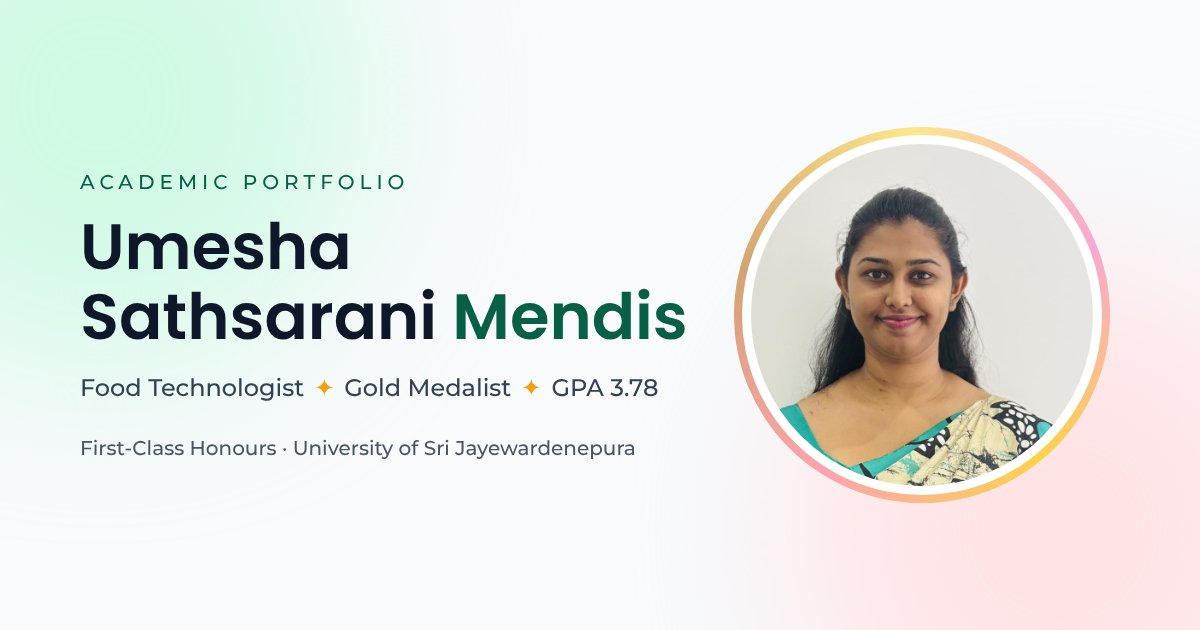
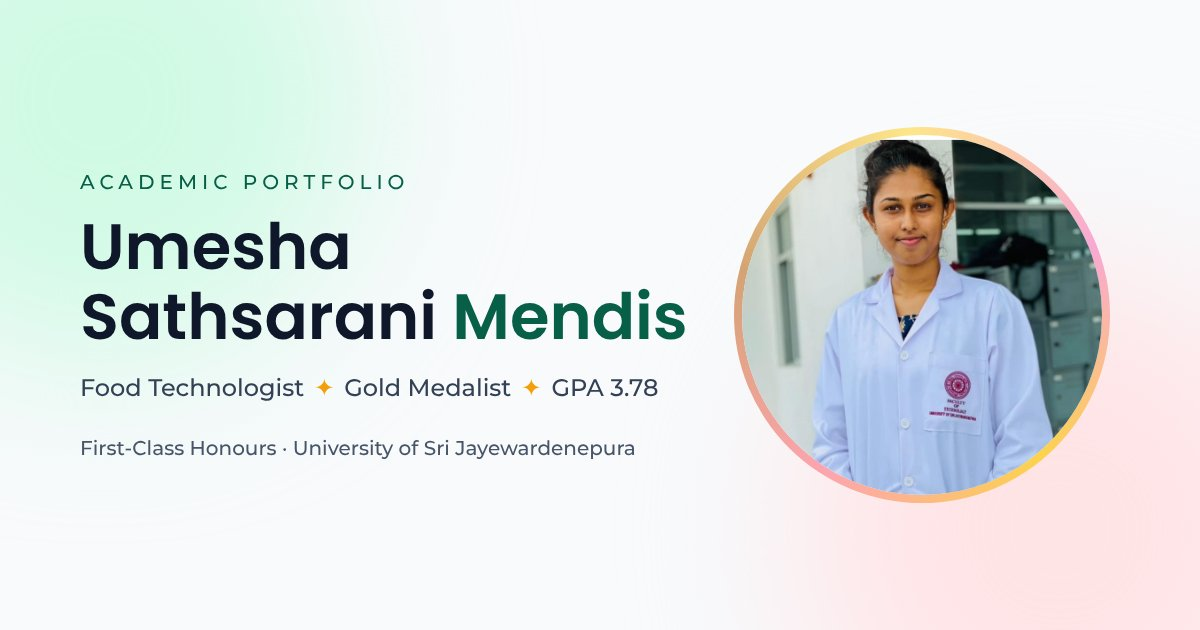
Use 3.jpeg as headshot instead of IMG_0790
- Hero headshot, preload, JSON-LD image and og-image now use 3.jpeg
- Remove public/IMG_0790.jpg
- Machinery card returns to its illustrated cover so 3.jpeg isn't repeated

Claude-Session: https://claude.ai/code/session_01BjArtn9AzUuMyRvcFWkPQm

Changed region(s): [[0.6167, 0.2111, 0.925, 0.7841]]

diff --git a/src/components/Hero.jsx b/src/components/Hero.jsx
@@ -83,15 +83,18 @@ export default function Hero() {
 
           <div className="relative aspect-square rounded-full bg-[conic-gradient(from_140deg,#fcd34d,#fda4af,#d4a373,#fde68a,#f9a8d4,#fcd34d)] p-1.5 shadow-xl shadow-rose-900/10">
             <div className="size-full rounded-full bg-white p-2">
-              <img
-                src={site.portrait.src}
-                width="800"
-                height="800"
-                alt={site.portrait.alt}
-                fetchPriority="high"
-                decoding="async"
-                className="size-full rounded-full object-cover object-top"
-              />
+              <div className="size-full overflow-hidden rounded-full bg-slate-100">
+                {/* 3.jpeg is a waist-up shot: zoom toward the face for a headshot crop */}
+                <img
+                  src={site.portrait.src}
+                  width="1080"
+                  height="1080"
+                  alt={site.portrait.alt}
+                  fetchPriority="high"
+                  decoding="async"
+                  className="size-full origin-[50%_3%] scale-[1.4] object-cover"
+                />
+              </div>
             </div>
           </div>
 

diff --git a/index.html b/index.html
@@ -13,7 +13,7 @@
     <link rel="icon" type="image/svg+xml" href="/favicon.svg" />
 
     <!-- Hero headshot is the Largest Contentful Paint element: start loading it before the JS runs -->
-    <link rel="preload" as="image" href="/IMG_0790.jpg" type="image/jpeg" fetchpriority="high" />
+    <link rel="preload" as="image" href="/3.jpeg" type="image/jpeg" fetchpriority="high" />
 
     <!-- Open Graph / social link previews -->
     <meta property="og:type" content="profile" />
@@ -47,7 +47,7 @@
         "jobTitle": "Food Technologist",
         "description": "First-Class Honours graduate in Biosystems Technology (Food Processing Technology) and Gold Medalist for the Most Outstanding Graduate, aspiring graduate researcher in food science.",
         "url": "https://iaus-mendis-portfolio.vercel.app/",
-        "image": "https://iaus-mendis-portfolio.vercel.app/IMG_0790.jpg",
+        "image": "https://iaus-mendis-portfolio.vercel.app/3.jpeg",
         "email": "mailto:umeshasathsaranimendis@gmail.com",
         "sameAs": ["https://www.linkedin.com/in/umesha-sathsarani-321a71265"],
         "nationality": { "@type": "Country", "name": "Sri Lanka" },

diff --git a/src/data/content.js b/src/data/content.js
@@ -28,8 +28,7 @@ export const site = {
   email: 'umeshasathsaranimendis@gmail.com',
   linkedin: 'https://www.linkedin.com/in/umesha-sathsarani-321a71265',
   portrait: {
-    // Converted from IMG_0790.HEIC, which most browsers cannot display.
-    src: asset('IMG_0790.jpg'),
+    src: asset('3.jpeg'),
     alt: 'Portrait of Umesha Sathsarani Mendis',
   },
 }
@@ -98,9 +97,7 @@ export const research = [
       'Applied engineering principles to design and develop a small-scale milk emulsification machine and a shrimp coating machine optimized for sugar wax applications.',
     tag: 'Process Engineering',
     icon: Cog,
-    image: asset('3.jpeg'),
-    imageAlt: 'Umesha in a Faculty of Technology lab coat at the University of Sri Jayewardenepura',
-    focus: 'object-[50%_20%]',
+    image: null,
     cover: 'from-slate-800 via-slate-700 to-emerald-700',
   },
   {

diff --git a/README.md b/README.md
@@ -15,7 +15,7 @@ Production build: `npm run build` (output in `dist/`). Vercel picks up the Vite 
 
 All copy, links and data live in `src/data/content.js`:
 
-- Photos and the CV live in `public/` (`IMG_0790.jpg`, `2.jpeg`, `3.jpeg`, `UMESHA SATHSARANI CV.pdf`). Replace a file with one of the same name to update it.
+- Photos and the CV live in `public/` (`3.jpeg` headshot, `2.jpeg` cider card, `UMESHA SATHSARANI CV.pdf`). Replace a file with one of the same name to update it.
 - `site.email` / `site.linkedin`: footer contact links.
 - `research[].image`: add a photo for the Culinary or Edible Coatings cards the same way (`asset('4.jpeg')`).
 
